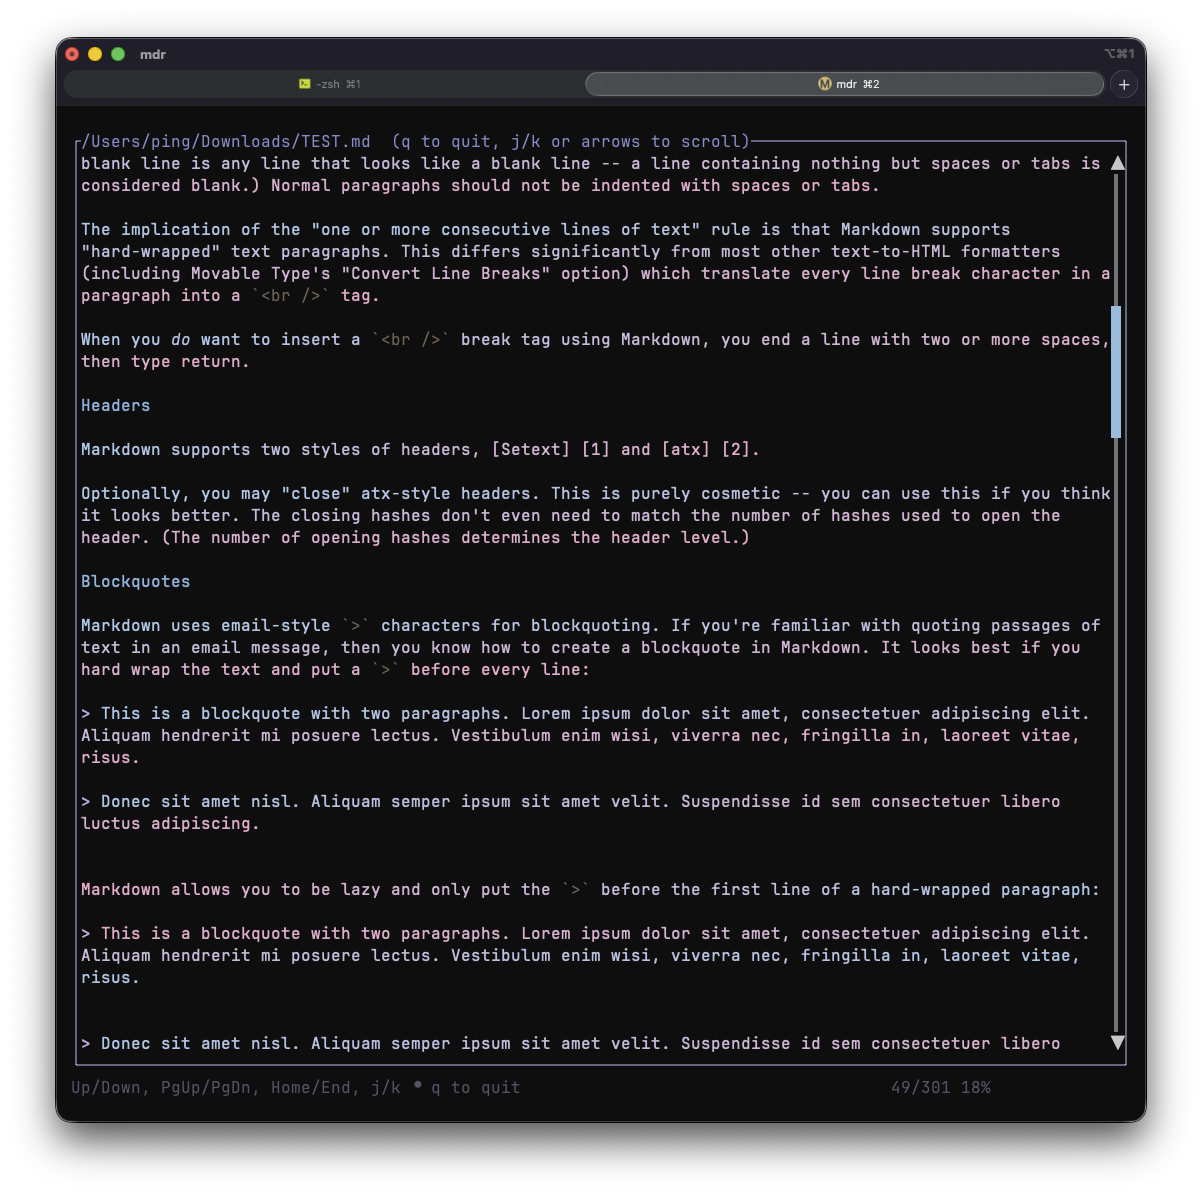
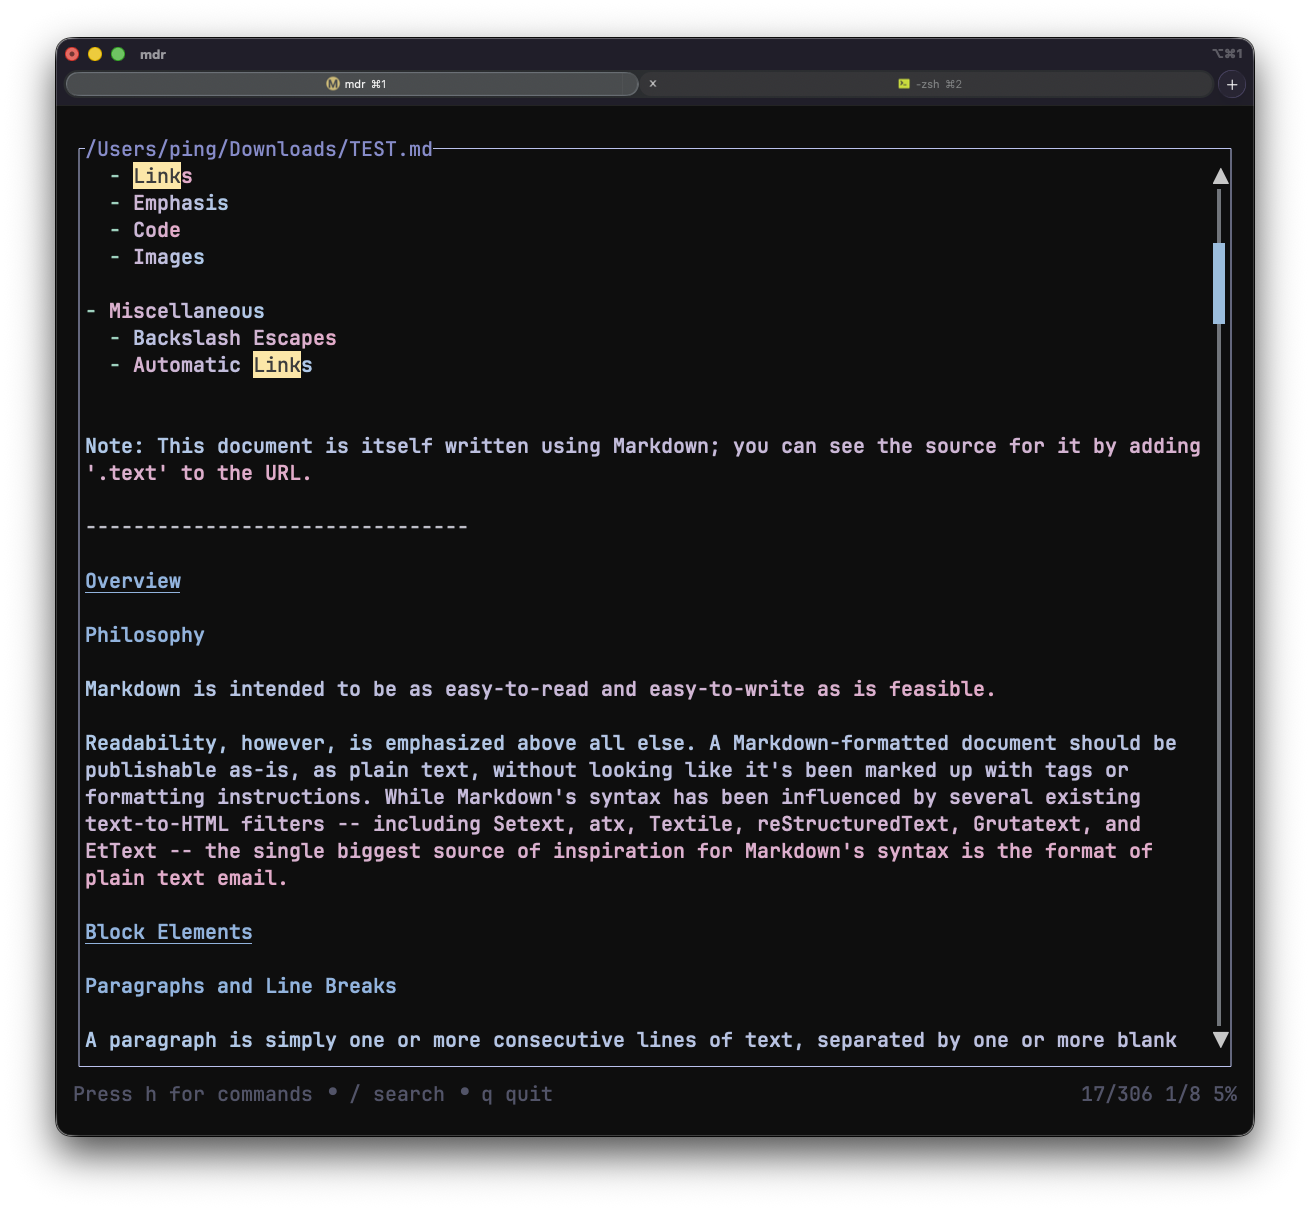
Updated screenshot

diff --git a/src/ui.rs b/src/ui.rs
@@ -28,6 +28,10 @@ pub fn run_tui(path: &str, markdown: &str, enable_beeline: bool) -> io::Result<(
     let mut beeline_enabled = enable_beeline;
     let mut plain_mode = false;
     let mut show_help = false;
+    let mut search_mode = false;
+    let mut search_query = String::new();
+    let mut search_matches: Vec<u16> = Vec::new();
+    let mut search_index: usize = 0;
 
     loop {
         terminal.draw(|frame| {
@@ -66,16 +70,35 @@ pub fn run_tui(path: &str, markdown: &str, enable_beeline: bool) -> io::Result<(
                 let paragraph = paragraph.scroll((scroll, 0));
                 frame.render_widget(paragraph, content_chunks[0]);
             } else {
-                let lines = if plain_mode {
+                let mut lines = if plain_mode {
                     render_plain_lines(markdown)
                 } else {
                     render_markdown_to_lines(markdown, content_chunks[0].width, &theme)
                 };
-                let lines = if beeline_enabled && !plain_mode {
-                    apply_beeline(&lines, &theme)
+                if beeline_enabled && !plain_mode {
+                    lines = apply_beeline(&lines, &theme);
+                }
+                let lines_text: Vec<String> = lines
+                    .iter()
+                    .map(|line| line.spans.iter().map(|span| span.content.as_ref()).collect())
+                    .collect();
+                if search_query.is_empty() {
+                    search_matches.clear();
+                    search_index = 0;
                 } else {
-                    lines
-                };
+                    let match_lines = find_matches(&lines_text, &search_query);
+                    let line_offsets = line_offsets(&lines, content_chunks[0].width);
+                    search_matches = match_lines
+                        .iter()
+                        .filter_map(|line_idx| line_offsets.get(*line_idx).copied())
+                        .collect();
+                    if search_index >= search_matches.len() {
+                        search_index = 0;
+                    }
+                }
+                if !search_query.is_empty() {
+                    lines = apply_search_highlight(&lines, &search_query, &theme);
+                }
                 let content = Text::from(lines.clone());
                 let paragraph = Paragraph::new(content).wrap(Wrap { trim: false });
                 viewport_height = content_chunks[0].height;
@@ -107,8 +130,12 @@ pub fn run_tui(path: &str, markdown: &str, enable_beeline: bool) -> io::Result<(
                 .constraints([Constraint::Min(1), Constraint::Length(24)])
                 .split(chunks[1]);
 
-            let help = Line::raw("Press h for commands • q quit")
-                .style(Style::new().fg(theme.footer).dim());
+            let help = if search_mode {
+                Line::raw(format!("/{}", search_query))
+            } else {
+                Line::raw("Press h for commands • / search • q quit")
+            }
+            .style(Style::new().fg(theme.footer).dim());
             frame.render_widget(Paragraph::new(help), footer_chunks[0]);
 
             let total_lines = rendered_lines.max(1);
@@ -119,14 +146,30 @@ pub fn run_tui(path: &str, markdown: &str, enable_beeline: bool) -> io::Result<(
                 } else {
                     (scroll.saturating_mul(100) / max_scroll).min(100)
                 };
-                let status = Line::from(vec![
-                    Span::styled(
-                        format!("{}/{}", scroll.saturating_add(1), total_lines),
-                        Style::new().fg(theme.footer).dim(),
-                    ),
-                    Span::raw(" "),
-                    Span::styled(format!("{}%", percent), Style::new().fg(theme.footer).dim()),
-                ]);
+                let mut status_spans = vec![Span::styled(
+                    format!("{}/{}", scroll.saturating_add(1), total_lines),
+                    Style::new().fg(theme.footer).dim(),
+                )];
+                if !search_query.is_empty() {
+                    status_spans.push(Span::raw(" "));
+                    if search_matches.is_empty() {
+                        status_spans.push(Span::styled(
+                            "no matches",
+                            Style::new().fg(theme.footer).dim(),
+                        ));
+                    } else {
+                        status_spans.push(Span::styled(
+                            format!("{}/{}", search_index + 1, search_matches.len()),
+                            Style::new().fg(theme.footer).dim(),
+                        ));
+                    }
+                }
+                status_spans.push(Span::raw(" "));
+                status_spans.push(Span::styled(
+                    format!("{}%", percent),
+                    Style::new().fg(theme.footer).dim(),
+                ));
+                let status = Line::from(status_spans);
                 frame.render_widget(Paragraph::new(status).right_aligned(), footer_chunks[1]);
             }
         })?;
@@ -137,6 +180,47 @@ pub fn run_tui(path: &str, markdown: &str, enable_beeline: bool) -> io::Result<(
                 let max_scroll = rendered_lines.saturating_sub(viewport_height);
                 match key.code {
                     KeyCode::Char('q') => break,
+                    KeyCode::Char('/') if !show_help => {
+                        search_mode = true;
+                        search_query.clear();
+                        search_matches.clear();
+                        search_index = 0;
+                    }
+                    KeyCode::Enter if search_mode => {
+                        search_mode = false;
+                        if let Some(&line) = search_matches.first() {
+                            scroll = line.min(max_scroll);
+                        }
+                    }
+                    KeyCode::Esc if search_mode => {
+                        search_mode = false;
+                    }
+                    KeyCode::Backspace if search_mode => {
+                        search_query.pop();
+                        search_matches.clear();
+                        search_index = 0;
+                    }
+                    KeyCode::Char(c) if search_mode => {
+                        search_query.push(c);
+                        search_matches.clear();
+                        search_index = 0;
+                    }
+                    KeyCode::Char('n') if !search_mode && !show_help => {
+                        if !search_matches.is_empty() {
+                            search_index = (search_index + 1) % search_matches.len();
+                            scroll = search_matches[search_index].min(max_scroll);
+                        }
+                    }
+                    KeyCode::Char('N') if !search_mode && !show_help => {
+                        if !search_matches.is_empty() {
+                            if search_index == 0 {
+                                search_index = search_matches.len() - 1;
+                            } else {
+                                search_index -= 1;
+                            }
+                            scroll = search_matches[search_index].min(max_scroll);
+                        }
+                    }
                     KeyCode::Char('h') => {
                         show_help = !show_help;
                         scroll = 0;
@@ -212,6 +296,12 @@ fn help_lines() -> Vec<Line<'static>> {
         Line::raw("  Space                Page down"),
         Line::raw("  Mouse wheel          Scroll"),
         Line::raw(""),
+        Line::raw("Search:"),
+        Line::raw("  /                    Start search"),
+        Line::raw("  Enter                Jump to first match"),
+        Line::raw("  Esc                  Cancel search"),
+        Line::raw("  n / N                Next/previous match"),
+        Line::raw(""),
         Line::raw("Modes:"),
         Line::raw("  b                    Toggle BeeLine"),
         Line::raw("  m                    Toggle plain mode"),
@@ -220,4 +310,125 @@ fn help_lines() -> Vec<Line<'static>> {
         Line::raw("  h                    Toggle help"),
         Line::raw("  q                    Quit"),
     ]
+}
+
+fn find_matches(lines: &[String], query: &str) -> Vec<usize> {
+    if query.is_empty() {
+        return Vec::new();
+    }
+    lines
+        .iter()
+        .enumerate()
+        .filter_map(|(idx, line)| if !match_ranges(line, query).is_empty() { Some(idx) } else { None })
+        .collect()
+}
+
+fn apply_search_highlight(
+    lines: &[Line<'static>],
+    query: &str,
+    theme: &Theme,
+) -> Vec<Line<'static>> {
+    if query.is_empty() {
+        return lines.to_vec();
+    }
+    lines
+        .iter()
+        .map(|line| apply_search_highlight_line(line, query, theme))
+        .collect()
+}
+
+fn apply_search_highlight_line(
+    line: &Line<'static>,
+    query: &str,
+    theme: &Theme,
+) -> Line<'static> {
+    let line_text: String = line
+        .spans
+        .iter()
+        .map(|span| span.content.as_ref())
+        .collect();
+    let ranges = match_ranges(&line_text, query);
+    if ranges.is_empty() {
+        return line.clone();
+    }
+
+    let char_offsets: Vec<usize> = line_text.char_indices().map(|(i, _)| i).collect();
+    let mut highlights = vec![false; char_offsets.len()];
+    for (start, end) in ranges {
+        for (idx, &byte_offset) in char_offsets.iter().enumerate() {
+            if byte_offset >= start && byte_offset < end {
+                highlights[idx] = true;
+            }
+        }
+    }
+
+    let mut spans: Vec<Span<'static>> = Vec::new();
+    let mut current = String::new();
+    let mut current_style: Option<Style> = None;
+    let mut char_index = 0usize;
+
+    for span in &line.spans {
+        for ch in span.content.chars() {
+            let mut style = span.style;
+            if highlights.get(char_index).copied().unwrap_or(false) {
+                style = style.patch(Style::new().bg(theme.search_bg).fg(theme.search_fg));
+            }
+            if current_style == Some(style) {
+                current.push(ch);
+            } else {
+                if !current.is_empty() {
+                    spans.push(Span::styled(current.clone(), current_style.unwrap_or_default()));
+                    current.clear();
+                }
+                current_style = Some(style);
+                current.push(ch);
+            }
+            char_index += 1;
+        }
+    }
+
+    if !current.is_empty() {
+        spans.push(Span::styled(current, current_style.unwrap_or_default()));
+    }
+
+    Line {
+        spans,
+        style: line.style,
+        alignment: line.alignment,
+    }
+}
+
+fn match_ranges(line: &str, query: &str) -> Vec<(usize, usize)> {
+    let hay = line.as_bytes();
+    let needle = query.as_bytes();
+    if needle.is_empty() || needle.len() > hay.len() {
+        return Vec::new();
+    }
+    let mut ranges = Vec::new();
+    for i in 0..=hay.len() - needle.len() {
+        let mut matched = true;
+        for j in 0..needle.len() {
+            if hay[i + j].to_ascii_lowercase() != needle[j].to_ascii_lowercase() {
+                matched = false;
+                break;
+            }
+        }
+        if matched {
+            ranges.push((i, i + needle.len()));
+        }
+    }
+    ranges
+}
+
+fn line_offsets(lines: &[Line<'static>], width: u16) -> Vec<u16> {
+    let mut offsets: Vec<u16> = Vec::with_capacity(lines.len());
+    let mut current: u16 = 0;
+    let width = width.max(1) as usize;
+    for line in lines {
+        offsets.push(current);
+        let line_width = line.width().max(1);
+        let wrapped = (line_width + width - 1) / width;
+        current = current.saturating_add(wrapped as u16);
+    }
+    offsets
 }

diff --git a/src/theme.rs b/src/theme.rs
@@ -14,6 +14,8 @@ pub struct Theme {
     pub scrollbar_track: Color,
     pub beeline_start: Color,
     pub beeline_end: Color,
+    pub search_bg: Color,
+    pub search_fg: Color,
 }
 
 impl Theme {
@@ -31,6 +33,8 @@ impl Theme {
             scrollbar_track: Color::Rgb(210, 220, 230),
             beeline_start: Color::Rgb(170, 200, 230),
             beeline_end: Color::Rgb(230, 170, 200),
+            search_bg: Color::Rgb(255, 230, 170),
+            search_fg: Color::Rgb(60, 60, 60),
         }
     }
 }
